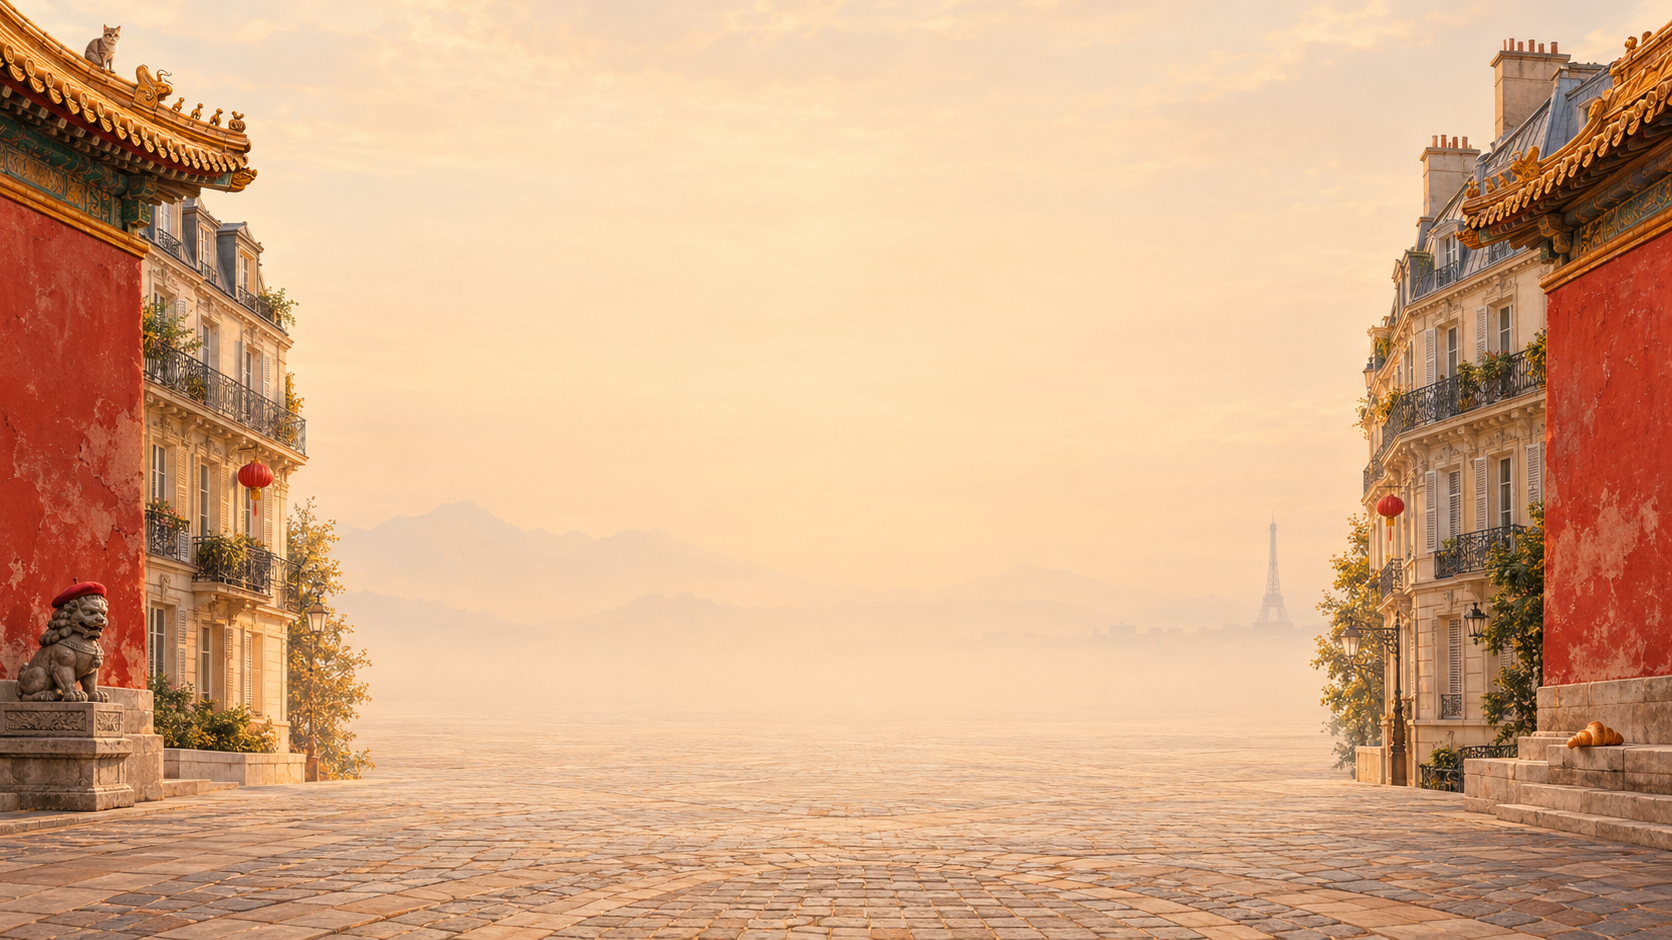
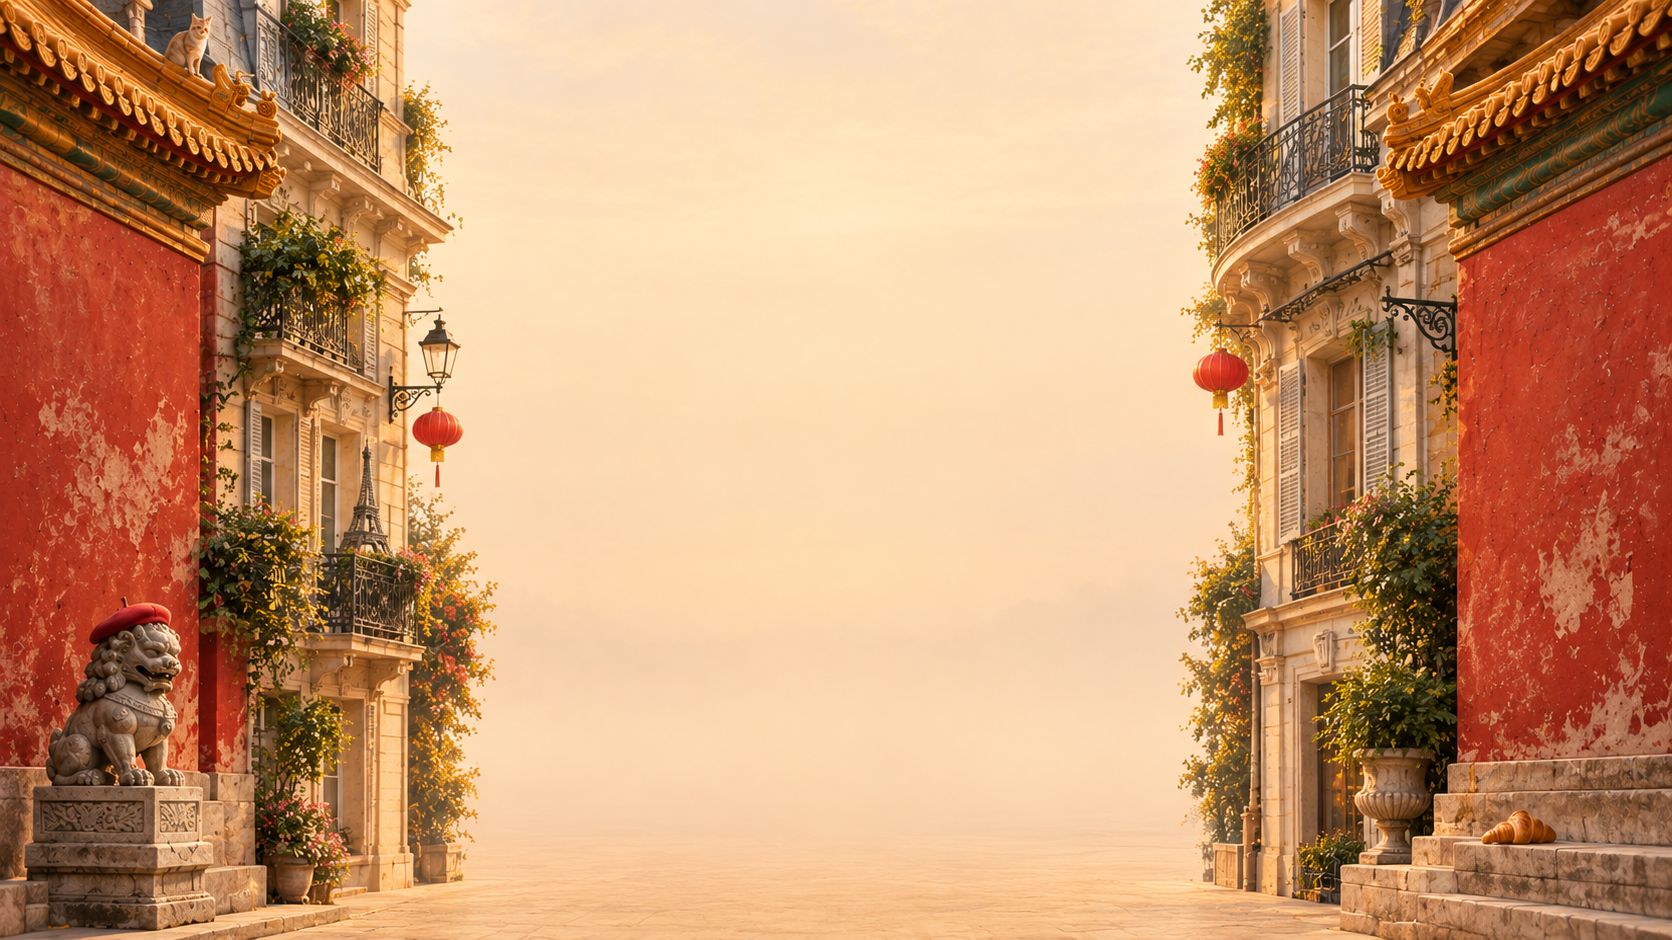
New background, smaller gate, title-case hidden names

diff --git a/dist/countries.js b/dist/countries.js
@@ -4,15 +4,15 @@
  */
 /** Names hidden in the cloth — read left→right ("h") or top→bottom ("v"). */
 const HIDDEN_NAMES = [
-  { text: "SAKSHI ROTAKE", row: 3, col: 4, dir: "h" },
-  { text: "RADHIKA GOPAL", row: 9, col: 14, dir: "h" },
-  { text: "BHARATI", row: 19, col: 18, dir: "h" },
-  { text: "KIRAN ROTAKE", row: 5, col: 38, dir: "v" },
-  { text: "SAURABH ROTAKE", row: 11, col: 2, dir: "v" }
+  { text: "Sakshi Rotake", row: 3, col: 4, dir: "h" },
+  { text: "Radhika Gopal", row: 9, col: 14, dir: "h" },
+  { text: "Bharati", row: 19, col: 18, dir: "h" },
+  { text: "Kiran Rotake", row: 5, col: 38, dir: "v" },
+  { text: "Saurabh Rotake", row: 11, col: 2, dir: "v" }
 ];
 
-/** Name letters draw a touch larger than lowercase text, smaller than full capitals. */
-const HIDDEN_NAME_SCALE = 0.85;
+/** Name letters draw a touch larger than the surrounding cloth text. */
+const HIDDEN_NAME_SCALE = 1.15;
 
 export const COUNTRIES = {
   vietnam: {

diff --git a/src/countries.js b/src/countries.js
@@ -4,15 +4,15 @@
  */
 /** Names hidden in the cloth — read left→right ("h") or top→bottom ("v"). */
 const HIDDEN_NAMES = [
-  { text: "SAKSHI ROTAKE", row: 3, col: 4, dir: "h" },
-  { text: "RADHIKA GOPAL", row: 9, col: 14, dir: "h" },
-  { text: "BHARATI", row: 19, col: 18, dir: "h" },
-  { text: "KIRAN ROTAKE", row: 5, col: 38, dir: "v" },
-  { text: "SAURABH ROTAKE", row: 11, col: 2, dir: "v" }
+  { text: "Sakshi Rotake", row: 3, col: 4, dir: "h" },
+  { text: "Radhika Gopal", row: 9, col: 14, dir: "h" },
+  { text: "Bharati", row: 19, col: 18, dir: "h" },
+  { text: "Kiran Rotake", row: 5, col: 38, dir: "v" },
+  { text: "Saurabh Rotake", row: 11, col: 2, dir: "v" }
 ];
 
-/** Name letters draw a touch larger than lowercase text, smaller than full capitals. */
-const HIDDEN_NAME_SCALE = 0.85;
+/** Name letters draw a touch larger than the surrounding cloth text. */
+const HIDDEN_NAME_SCALE = 1.15;
 
 export const COUNTRIES = {
   vietnam: {

diff --git a/dist/style.css b/dist/style.css
@@ -3,6 +3,8 @@
 :root {
   --area-w: 492px;
   --area-h: 468px;
+  /* Wallpaper — shrink gate to sit inside the background's opening */
+  --gate-scale: 0.78;
   /* Default China roof from Figma 605:6500 crop → full PNG placement */
   --roof-x: -180px;
   --roof-y: -508px;
@@ -296,7 +298,8 @@ body {
   top: calc(357 / 900 * 100%);
   width: var(--area-w);
   height: var(--area-h);
-  transform: translateX(-50%);
+  transform: translateX(-50%) scale(var(--gate-scale));
+  transform-origin: 50% 0;
   z-index: 1;
   overflow: visible;
 }

diff --git a/src/style.css b/src/style.css
@@ -3,6 +3,8 @@
 :root {
   --area-w: 492px;
   --area-h: 468px;
+  /* Wallpaper — shrink gate to sit inside the background's opening */
+  --gate-scale: 0.78;
   /* Default China roof from Figma 605:6500 crop → full PNG placement */
   --roof-x: -180px;
   --roof-y: -508px;
@@ -296,7 +298,8 @@ body {
   top: calc(357 / 900 * 100%);
   width: var(--area-w);
   height: var(--area-h);
-  transform: translateX(-50%);
+  transform: translateX(-50%) scale(var(--gate-scale));
+  transform-origin: 50% 0;
   z-index: 1;
   overflow: visible;
 }
